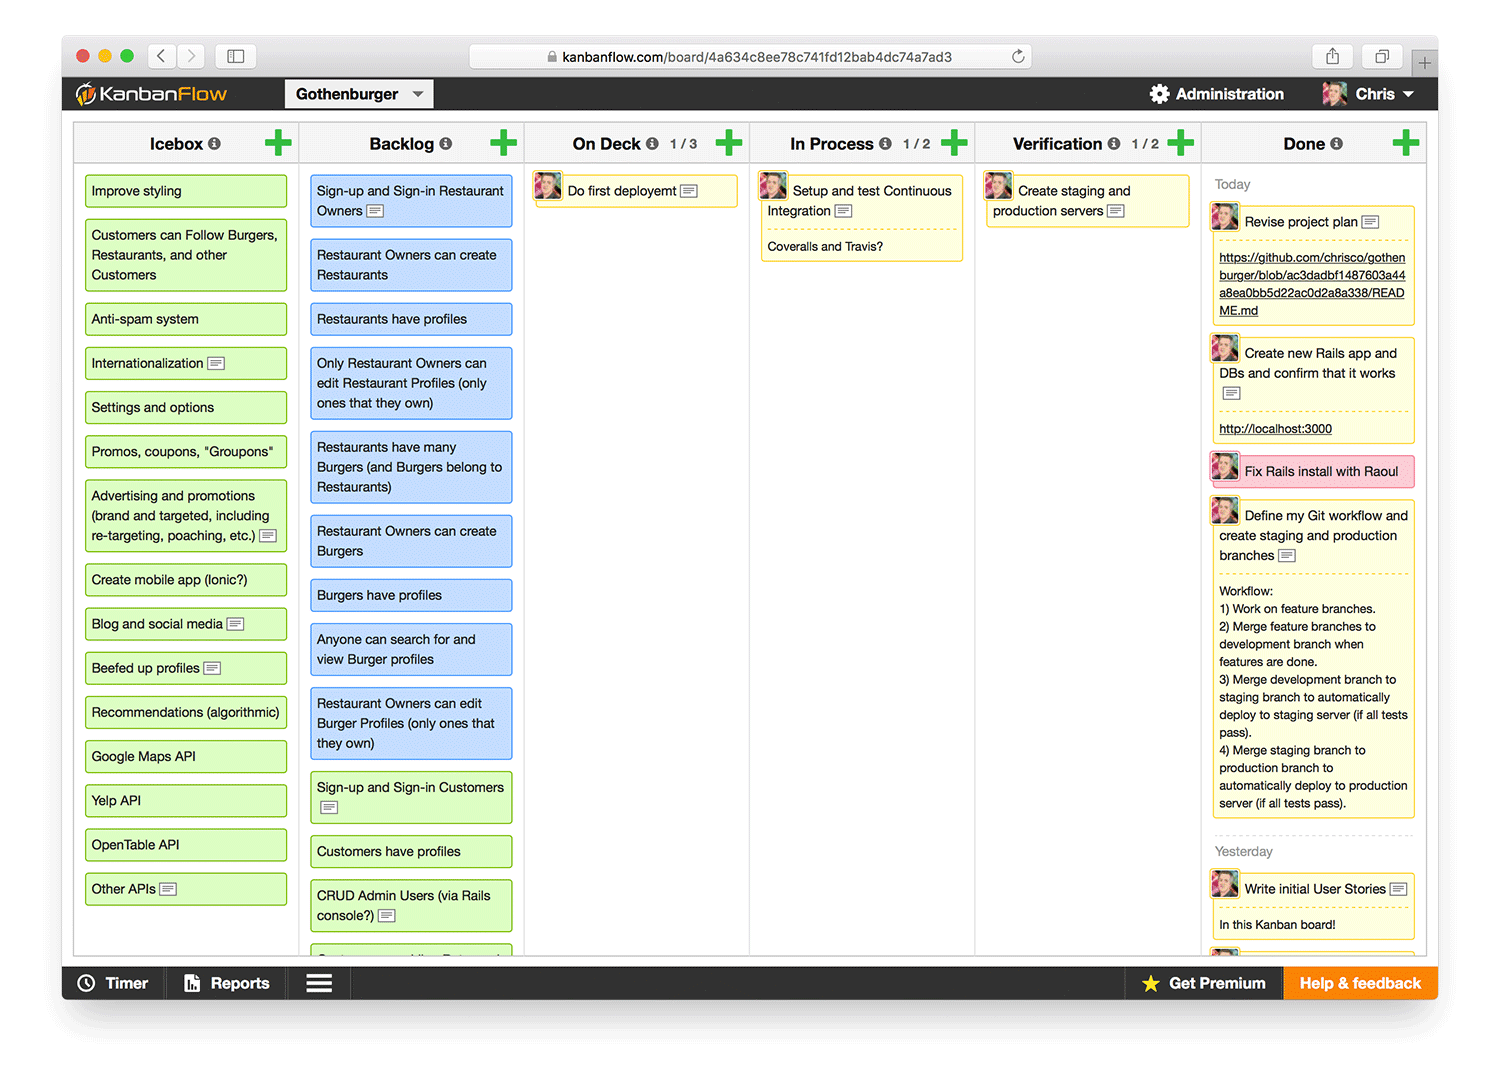
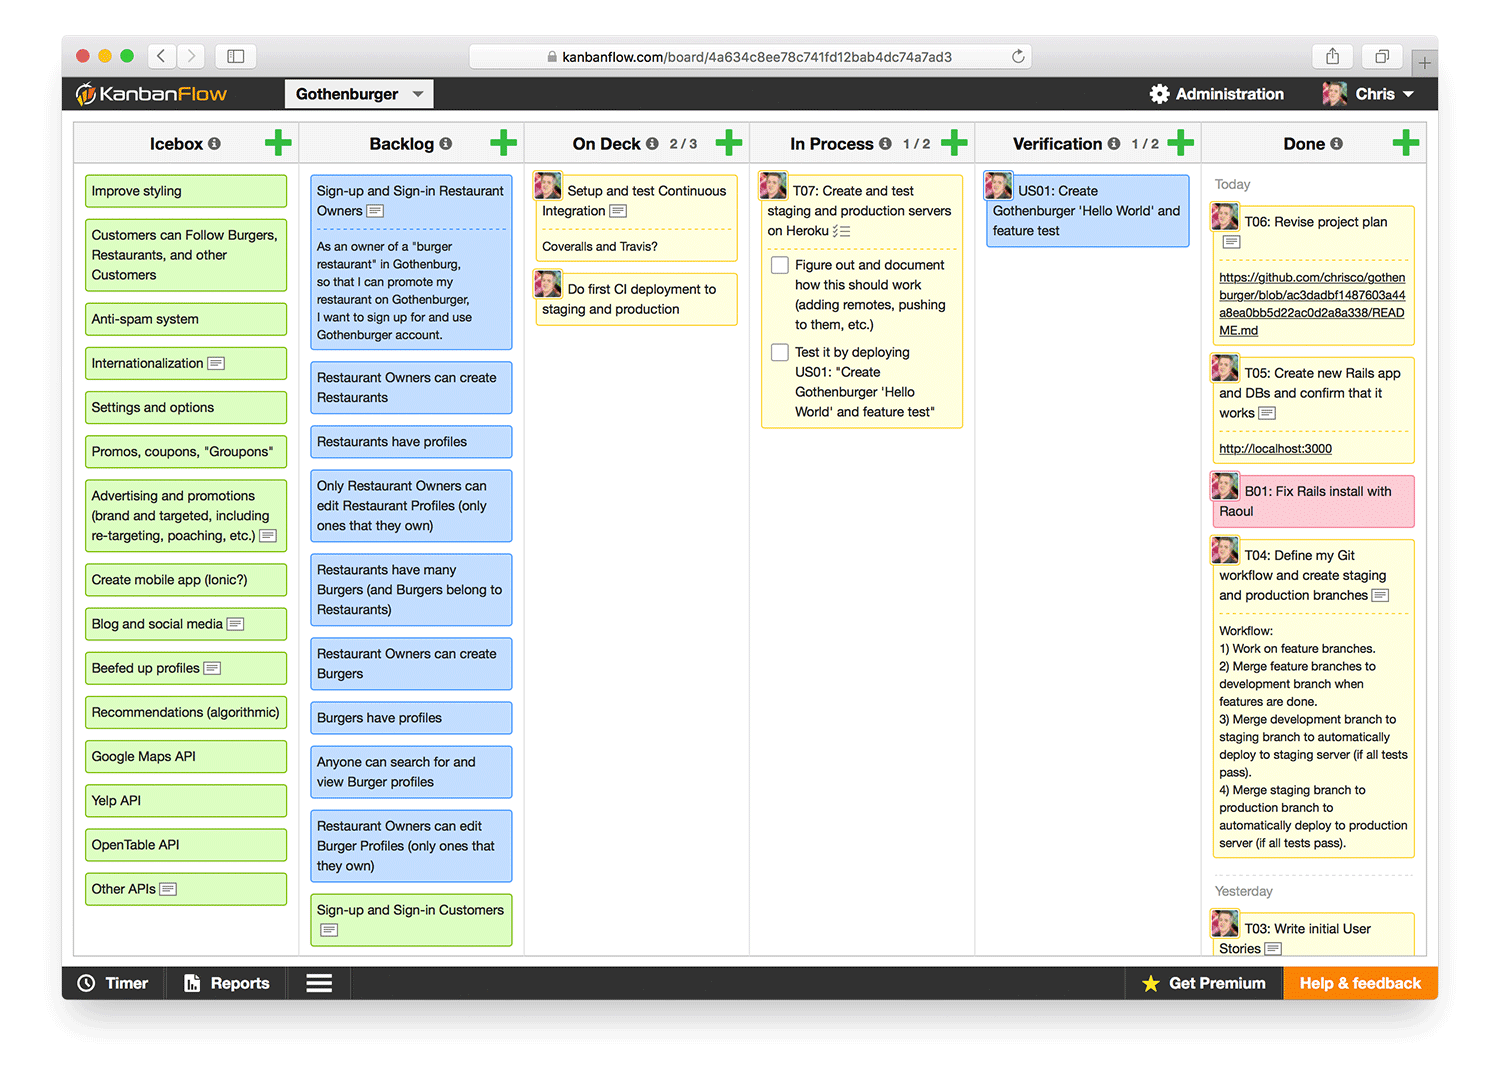
deliver US01: "Create Gothenburger 'Hello World' and feature test" user story

Changed region(s): [[0.184, 0.1562, 0.9507, 0.9062]]

diff --git a/spec/spec_helper.rb b/spec/spec_helper.rb
@@ -1,0 +1,92 @@
+# This file was generated by the `rails generate rspec:install` command. Conventionally, all
+# specs live under a `spec` directory, which RSpec adds to the `$LOAD_PATH`.
+# The generated `.rspec` file contains `--require spec_helper` which will cause
+# this file to always be loaded, without a need to explicitly require it in any
+# files.
+#
+# Given that it is always loaded, you are encouraged to keep this file as
+# light-weight as possible. Requiring heavyweight dependencies from this file
+# will add to the boot time of your test suite on EVERY test run, even for an
+# individual file that may not need all of that loaded. Instead, consider making
+# a separate helper file that requires the additional dependencies and performs
+# the additional setup, and require it from the spec files that actually need
+# it.
+#
+# The `.rspec` file also contains a few flags that are not defaults but that
+# users commonly want.
+#
+# See http://rubydoc.info/gems/rspec-core/RSpec/Core/Configuration
+RSpec.configure do |config|
+  # rspec-expectations config goes here. You can use an alternate
+  # assertion/expectation library such as wrong or the stdlib/minitest
+  # assertions if you prefer.
+  config.expect_with :rspec do |expectations|
+    # This option will default to `true` in RSpec 4. It makes the `description`
+    # and `failure_message` of custom matchers include text for helper methods
+    # defined using `chain`, e.g.:
+    #     be_bigger_than(2).and_smaller_than(4).description
+    #     # => "be bigger than 2 and smaller than 4"
+    # ...rather than:
+    #     # => "be bigger than 2"
+    expectations.include_chain_clauses_in_custom_matcher_descriptions = true
+  end
+
+  # rspec-mocks config goes here. You can use an alternate test double
+  # library (such as bogus or mocha) by changing the `mock_with` option here.
+  config.mock_with :rspec do |mocks|
+    # Prevents you from mocking or stubbing a method that does not exist on
+    # a real object. This is generally recommended, and will default to
+    # `true` in RSpec 4.
+    mocks.verify_partial_doubles = true
+  end
+
+# The settings below are suggested to provide a good initial experience
+# with RSpec, but feel free to customize to your heart's content.
+=begin
+  # These two settings work together to allow you to limit a spec run
+  # to individual examples or groups you care about by tagging them with
+  # `:focus` metadata. When nothing is tagged with `:focus`, all examples
+  # get run.
+  config.filter_run :focus
+  config.run_all_when_everything_filtered = true
+
+  # Allows RSpec to persist some state between runs in order to support
+  # the `--only-failures` and `--next-failure` CLI options. We recommend
+  # you configure your source control system to ignore this file.
+  config.example_status_persistence_file_path = "spec/examples.txt"
+
+  # Limits the available syntax to the non-monkey patched syntax that is
+  # recommended. For more details, see:
+  #   - http://rspec.info/blog/2012/06/rspecs-new-expectation-syntax/
+  #   - http://www.teaisaweso.me/blog/2013/05/27/rspecs-new-message-expectation-syntax/
+  #   - http://rspec.info/blog/2014/05/notable-changes-in-rspec-3/#zero-monkey-patching-mode
+  config.disable_monkey_patching!
+
+  # Many RSpec users commonly either run the entire suite or an individual
+  # file, and it's useful to allow more verbose output when running an
+  # individual spec file.
+  if config.files_to_run.one?
+    # Use the documentation formatter for detailed output,
+    # unless a formatter has already been configured
+    # (e.g. via a command-line flag).
+    config.default_formatter = 'doc'
+  end
+
+  # Print the 10 slowest examples and example groups at the
+  # end of the spec run, to help surface which specs are running
+  # particularly slow.
+  config.profile_examples = 10
+
+  # Run specs in random order to surface order dependencies. If you find an
+  # order dependency and want to debug it, you can fix the order by providing
+  # the seed, which is printed after each run.
+  #     --seed 1234
+  config.order = :random
+
+  # Seed global randomization in this process using the `--seed` CLI option.
+  # Setting this allows you to use `--seed` to deterministically reproduce
+  # test failures related to randomization by passing the same `--seed` value
+  # as the one that triggered the failure.
+  Kernel.srand config.seed
+=end
+end

diff --git a/spec/rails_helper.rb b/spec/rails_helper.rb
@@ -1,0 +1,58 @@
+# This file is copied to spec/ when you run 'rails generate rspec:install'
+ENV['RAILS_ENV'] ||= 'test'
+require File.expand_path('../../config/environment', __FILE__)
+# Prevent database truncation if the environment is production
+abort("The Rails environment is running in production mode!") if Rails.env.production?
+require 'spec_helper'
+require 'rspec/rails'
+require 'capybara/rails'
+# Add additional requires below this line. Rails is not loaded until this point!
+
+# Requires supporting ruby files with custom matchers and macros, etc, in
+# spec/support/ and its subdirectories. Files matching `spec/**/*_spec.rb` are
+# run as spec files by default. This means that files in spec/support that end
+# in _spec.rb will both be required and run as specs, causing the specs to be
+# run twice. It is recommended that you do not name files matching this glob to
+# end with _spec.rb. You can configure this pattern with the --pattern
+# option on the command line or in ~/.rspec, .rspec or `.rspec-local`.
+#
+# The following line is provided for convenience purposes. It has the downside
+# of increasing the boot-up time by auto-requiring all files in the support
+# directory. Alternatively, in the individual `*_spec.rb` files, manually
+# require only the support files necessary.
+#
+# Dir[Rails.root.join('spec/support/**/*.rb')].each { |f| require f }
+
+# Checks for pending migration and applies them before tests are run.
+# If you are not using ActiveRecord, you can remove this line.
+ActiveRecord::Migration.maintain_test_schema!
+
+RSpec.configure do |config|
+  # Remove this line if you're not using ActiveRecord or ActiveRecord fixtures
+  config.fixture_path = "#{::Rails.root}/spec/fixtures"
+
+  # If you're not using ActiveRecord, or you'd prefer not to run each of your
+  # examples within a transaction, remove the following line or assign false
+  # instead of true.
+  config.use_transactional_fixtures = true
+
+  # RSpec Rails can automatically mix in different behaviours to your tests
+  # based on their file location, for example enabling you to call `get` and
+  # `post` in specs under `spec/controllers`.
+  #
+  # You can disable this behaviour by removing the line below, and instead
+  # explicitly tag your specs with their type, e.g.:
+  #
+  #     RSpec.describe UsersController, :type => :controller do
+  #       # ...
+  #     end
+  #
+  # The different available types are documented in the features, such as in
+  # https://relishapp.com/rspec/rspec-rails/docs
+  config.infer_spec_type_from_file_location!
+
+  # Filter lines from Rails gems in backtraces.
+  config.filter_rails_from_backtrace!
+  # arbitrary gems may also be filtered via:
+  # config.filter_gems_from_backtrace("gem name")
+end

diff --git a/spec/features/dashboards_feature_spec.rb b/spec/features/dashboards_feature_spec.rb
@@ -1,0 +1,11 @@
+require 'rails_helper'
+
+RSpec.feature 'Hello World' do
+
+  context 'when visitors vist the root path' do
+    scenario 'they see the dashboard welcome page and content' do
+      visit '/'
+      expect(page).to have_content 'Welcome to the Gothenburger Admin Dashboard'
+    end
+  end
+end

diff --git a/config/routes.rb b/config/routes.rb
@@ -1,4 +1,6 @@
 Rails.application.routes.draw do
+
+  root 'dashboard#index'
   # The priority is based upon order of creation: first created -> highest priority.
   # See how all your routes lay out with "rake routes".
 

diff --git a/app/controllers/dashboard_controller.rb b/app/controllers/dashboard_controller.rb
@@ -1,0 +1,4 @@
+class DashboardController < ApplicationController
+  def index
+  end
+end

diff --git a/README.md b/README.md
@@ -81,7 +81,13 @@ A lightweight, lean/agile approach that I call "Scrum-flavored Kanban sprinkled 
 
 ## Project Management / Software Development Tooling
 
-While I typically prefer paper, pen, and a physical board, for this project I will test out www.kanbanflow.com, a tool made by a local guy I met at the excellent [Brewing Agile](https://brewingagile.org/) conference.  Blue and Green cards are User Stories (Blue for MVP features), Yellow cards are Tasks, and Red cards are Bugs.
+While I typically prefer paper, pen, and a physical board, for this project I will test out www.kanbanflow.com, a tool made by a local guy I met at the excellent [Brewing Agile](https://brewingagile.org/) conference.
+
+Blue and Green cards are User Stories (Blue for MVP features), Yellow cards are Tasks, and Red cards are Bugs.  Cards are numbered as follows:
+
+* US## for User Stories
+* T## for Tasks
+* B## for Bugs
 
 The columns are as follow:
 
